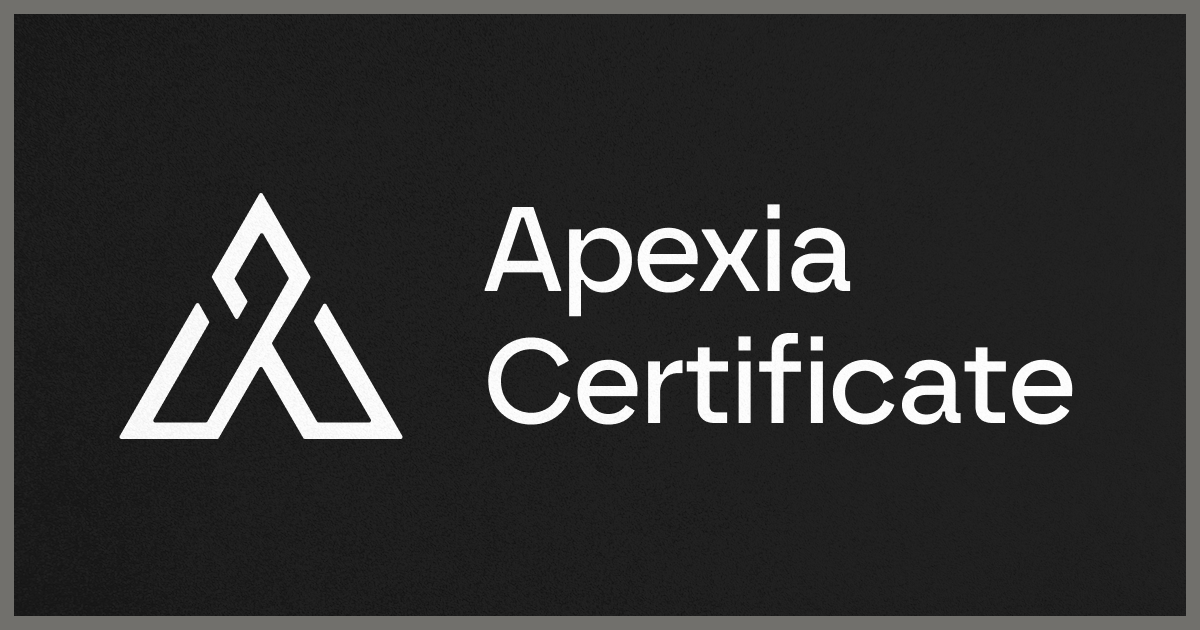
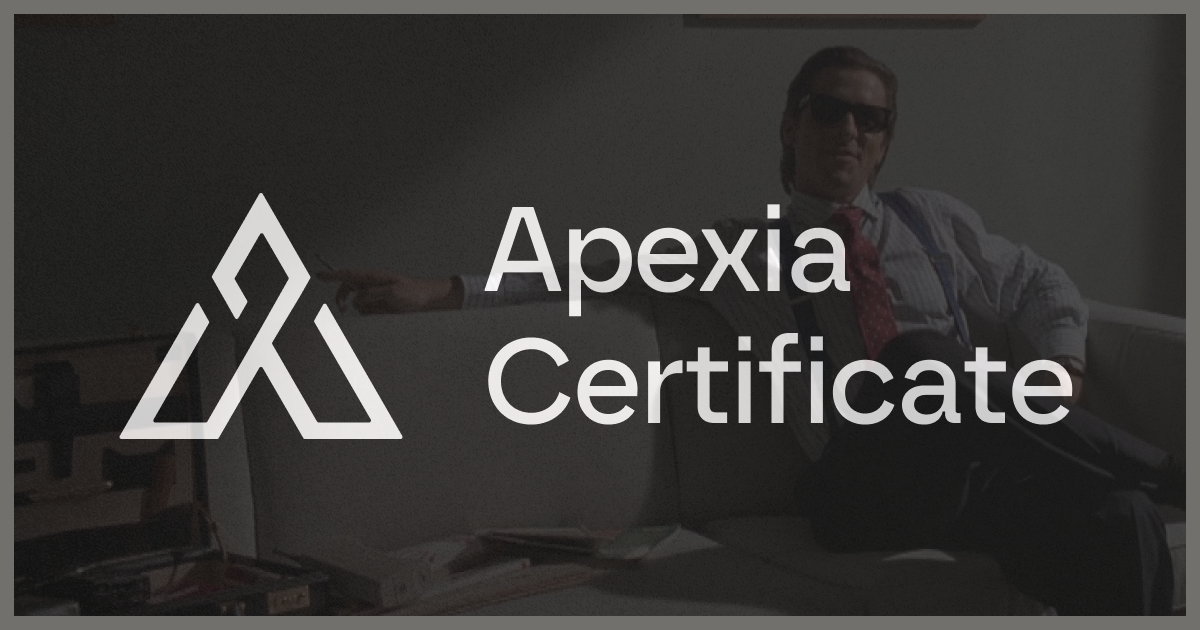
added open graph image and title-description in meta tag

diff --git a/app/layout.tsx b/app/layout.tsx
@@ -9,8 +9,11 @@ import { Analytics } from '@vercel/analytics/react';
 import { ThemeProvider } from "@/components/theme-provider";
 
 export const metadata: Metadata = {
-    title: "Apexia Certificate",
-    description: "Apexia Certificate",
+    title: {
+        default: "Apexia Certificate",
+        template: "%s | Apexia Certificate"
+    },
+    description: "Get your personalized certificate ",
 };
 
 export default function RootLayout({

diff --git a/app/(certificate)/(routes)/converge/page.tsx b/app/(certificate)/(routes)/converge/page.tsx
@@ -151,6 +151,7 @@ export default function Certificate() {
 
     return (
         <>
+            <title>Converge | Apexia Certificate</title>
             <div className="w-full max-w-[90%] mx-auto justify-center min-h-screen">
                 <div className="flex items-center">
                     <Link href="../" className="cursor-pointer">
